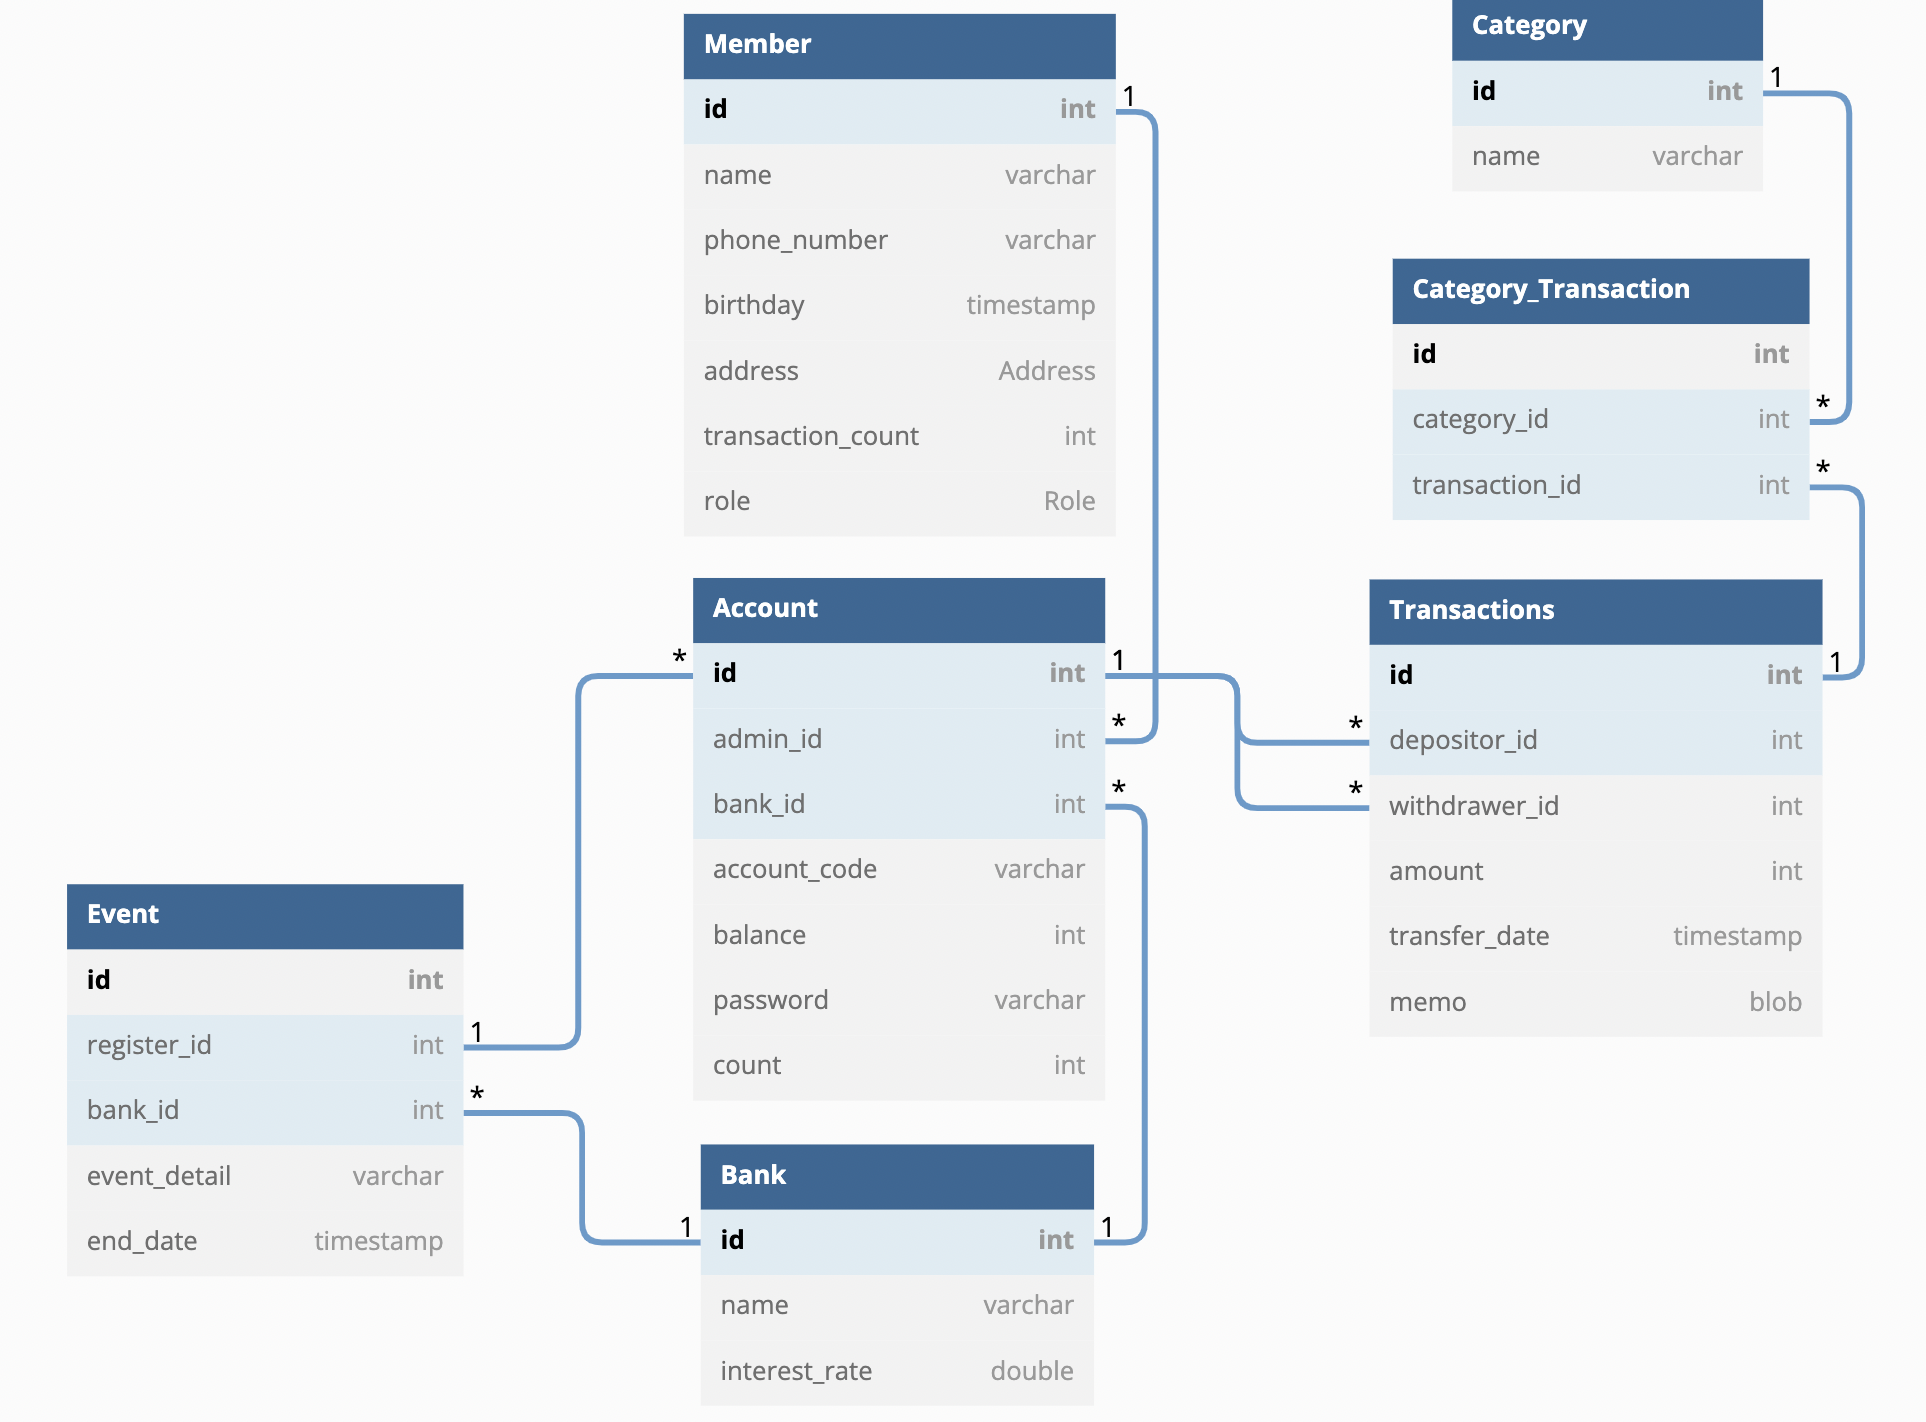
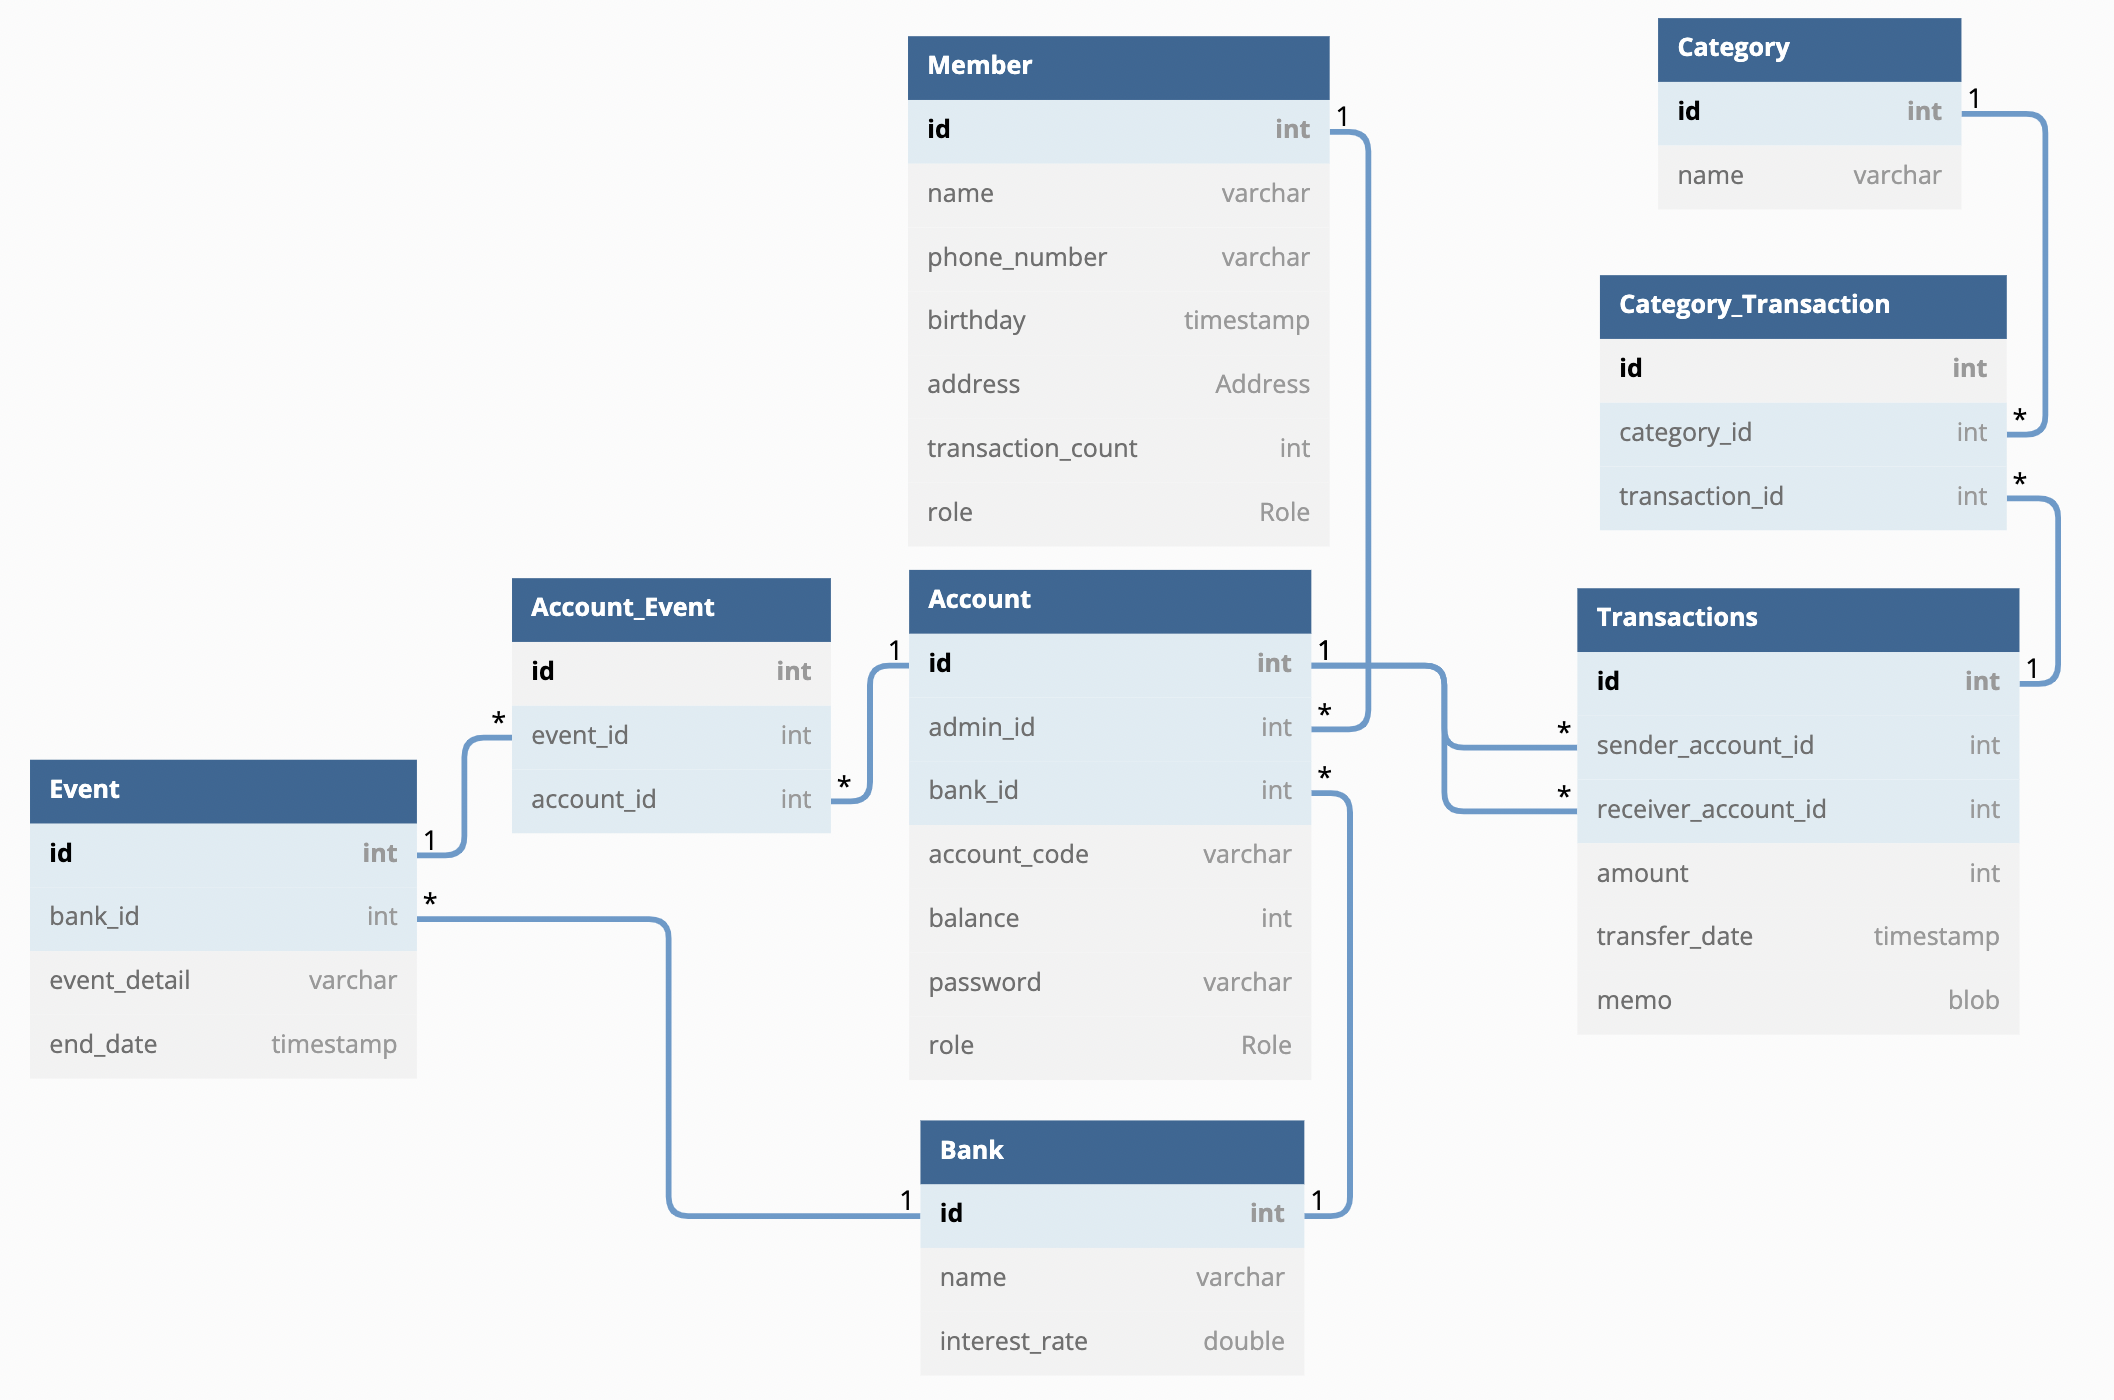
Create Entity

diff --git a/src/main/java/com/toss/tossclone/entity/Member.java b/src/main/java/com/toss/tossclone/entity/Member.java
@@ -1,0 +1,51 @@
+package com.toss.tossclone.entity;
+
+import com.toss.tossclone.entity.constant.MemberRole;
+import lombok.*;
+
+import javax.persistence.*;
+import java.time.LocalDateTime;
+
+@Entity
+@Getter @Setter(AccessLevel.PROTECTED)
+@NoArgsConstructor(access = AccessLevel.PROTECTED)
+public class Member {
+    @Id @GeneratedValue
+    @Column(name = "member_id")
+    private Long id;
+
+    @Column(nullable = false)
+    private String name;
+
+    @Column(name = "phone_number")
+    private String phoneNum;
+
+    @Column(nullable = false)
+    private LocalDateTime birthday;
+
+    @Embedded
+    private Address address;
+
+    @Column(name = "transaction_count")
+    private int transactionCount;
+
+    @Enumerated(EnumType.STRING)
+    private MemberRole role;
+
+    @Builder
+    public Member(String name, String phoneNum, LocalDateTime birthday, Address address, int transactionCount, MemberRole role) {
+        this.name = name;
+        this.phoneNum = phoneNum;
+        this.birthday = birthday;
+        this.address = address;
+        this.transactionCount = transactionCount;
+        this.role = role;
+    }
+
+    /**
+     * 한달마다 거래 횟수 초기화
+     */
+    void initTransactionCount() {
+        transactionCount = 0;
+    }
+}

diff --git a/src/main/java/com/toss/tossclone/entity/Transaction.java b/src/main/java/com/toss/tossclone/entity/Transaction.java
@@ -1,0 +1,45 @@
+package com.toss.tossclone.entity;
+
+import lombok.*;
+
+import javax.persistence.*;
+import java.time.LocalDateTime;
+
+@Entity
+@Table(name = "Transactions")
+@Getter
+@Setter(AccessLevel.PROTECTED)
+@NoArgsConstructor(access = AccessLevel.PROTECTED)
+public class Transaction {
+    @Id @GeneratedValue
+    @Column(name = "transaction_id")
+    private Long id;
+
+    @ManyToOne(fetch = FetchType.LAZY)
+    @JoinColumn(name = "account_id")
+    @Column(name = "sender_account_id")
+    private Account senderAccount;
+
+    @ManyToOne(fetch = FetchType.LAZY)
+    @JoinColumn(name = "account_id")
+    @Column(name = "receiver_account_id")
+    private Account receiverAccount;
+
+    @Column(nullable = false)
+    private Long amount;
+
+    @Column(name = "transfer_time", nullable = false)
+    private LocalDateTime transferTime;
+
+    @Lob
+    private String memo;
+
+    @Builder
+    public Transaction(Account senderAccount, Account receiverAccount, Long amount, LocalDateTime transferTime, String memo) {
+        this.senderAccount = senderAccount;
+        this.receiverAccount = receiverAccount;
+        this.amount = amount;
+        this.transferTime = transferTime;
+        this.memo = memo;
+    }
+}

diff --git a/src/main/java/com/toss/tossclone/entity/Account.java b/src/main/java/com/toss/tossclone/entity/Account.java
@@ -1,0 +1,42 @@
+package com.toss.tossclone.entity;
+
+import lombok.*;
+
+import javax.persistence.*;
+
+@Entity
+@Getter @Setter(AccessLevel.PROTECTED)
+@NoArgsConstructor(access = AccessLevel.PROTECTED)
+public class Account {
+    @Id @GeneratedValue
+    @Column(name = "account_id")
+    private Long id;
+
+    @ManyToOne(fetch = FetchType.LAZY)
+    @JoinColumn(name = "member_id")
+    private Member member;
+
+    @ManyToOne(fetch = FetchType.LAZY)
+    @JoinColumn(name = "bank_id")
+    private Bank bank;
+
+    @Column(name = "account_code", nullable = false)
+    private String accountCode;
+
+    @Column
+    private Long balance;
+
+    @Column(nullable = false)
+    private String password;
+
+    @Builder
+    public Account(Member member, Bank bank, String accountCode, Long balance, String password) {
+        this.member = member;
+        this.bank = bank;
+        this.accountCode = accountCode;
+        this.balance = balance;
+        this.password = password;
+    }
+
+
+}

diff --git a/src/main/java/com/toss/tossclone/entity/CategoryTransaction.java b/src/main/java/com/toss/tossclone/entity/CategoryTransaction.java
@@ -1,0 +1,30 @@
+package com.toss.tossclone.entity;
+
+import lombok.*;
+
+import javax.persistence.*;
+
+@Entity
+@Table(name = "Category_Transaction")
+@Getter
+@Setter(AccessLevel.PROTECTED)
+@NoArgsConstructor(access = AccessLevel.PROTECTED)
+public class CategoryTransaction {
+    @Id @GeneratedValue
+    @Column(name = "category_transaction_id")
+    private Long id;
+
+    @ManyToOne(fetch = FetchType.LAZY)
+    @JoinColumn(name = "category_id")
+    private Category category;
+
+    @ManyToOne(fetch = FetchType.LAZY)
+    @JoinColumn(name = "transaction_id")
+    private Transaction transaction;
+
+    @Builder
+    public CategoryTransaction(Category category, Transaction transaction) {
+        this.category = category;
+        this.transaction = transaction;
+    }
+}

diff --git a/src/main/java/com/toss/tossclone/entity/Event.java b/src/main/java/com/toss/tossclone/entity/Event.java
@@ -1,0 +1,33 @@
+package com.toss.tossclone.entity;
+
+import lombok.*;
+
+import javax.persistence.*;
+import java.time.LocalDateTime;
+
+@Entity
+@Getter
+@Setter(AccessLevel.PROTECTED)
+@NoArgsConstructor(access = AccessLevel.PROTECTED)
+public class Event {
+    @Id @GeneratedValue
+    @Column(name = "event_id")
+    private Long id;
+
+    @ManyToOne(fetch = FetchType.LAZY)
+    @JoinColumn(name = "bank_id")
+    private Bank bank;
+
+    @Column(name = "event_detail")
+    private String eventDetail;
+
+    @Column(name = "end_date")
+    private LocalDateTime endDate;
+
+    @Builder
+    public Event(Bank bank, String eventDetail, LocalDateTime endDate) {
+        this.bank = bank;
+        this.eventDetail = eventDetail;
+        this.endDate = endDate;
+    }
+}

diff --git a/src/main/java/com/toss/tossclone/entity/Bank.java b/src/main/java/com/toss/tossclone/entity/Bank.java
@@ -1,0 +1,34 @@
+package com.toss.tossclone.entity;
+
+import lombok.*;
+
+import javax.persistence.Column;
+import javax.persistence.Entity;
+import javax.persistence.GeneratedValue;
+import javax.persistence.Id;
+
+@Entity
+@Getter @Setter(AccessLevel.PROTECTED)
+@NoArgsConstructor(access = AccessLevel.PROTECTED)
+public class Bank {
+
+    @Id @GeneratedValue
+    @Column(name = "bank_id")
+    private Long id;
+
+    @Column(nullable = false)
+    private String name;
+
+    @Column(name = "interest_rate")
+    private Double interestRate;
+
+    @Builder
+    public Bank(String name, Double interestRate) {
+        this.name = name;
+        this.interestRate = interestRate;
+    }
+
+    /**
+     * 추후에 은행 별 icon 이미지 추가 해줄것
+     */
+}

diff --git a/src/main/java/com/toss/tossclone/entity/AccountEvent.java b/src/main/java/com/toss/tossclone/entity/AccountEvent.java
@@ -1,0 +1,29 @@
+package com.toss.tossclone.entity;
+
+import lombok.AccessLevel;
+import lombok.Getter;
+import lombok.NoArgsConstructor;
+import lombok.Setter;
+
+import javax.persistence.*;
+
+@Entity
+@Table(name = "Account_Event")
+@Getter
+@Setter(AccessLevel.PROTECTED)
+@NoArgsConstructor(access = AccessLevel.PROTECTED)
+public class AccountEvent {
+    @Id @GeneratedValue
+    @Column(name = "account_event_id")
+    private Long id;
+
+    @ManyToOne(fetch = FetchType.LAZY)
+    @JoinColumn(name = "event_id")
+    private Event event;
+
+    @ManyToOne(fetch = FetchType.LAZY)
+    @JoinColumn(name = "account_id")
+    private Account account;
+
+
+}

diff --git a/src/main/java/com/toss/tossclone/entity/Category.java b/src/main/java/com/toss/tossclone/entity/Category.java
@@ -1,0 +1,26 @@
+package com.toss.tossclone.entity;
+
+import lombok.*;
+
+import javax.persistence.Column;
+import javax.persistence.Entity;
+import javax.persistence.GeneratedValue;
+import javax.persistence.Id;
+
+@Entity
+@Getter
+@Setter(AccessLevel.PROTECTED)
+@NoArgsConstructor(access = AccessLevel.PROTECTED)
+public class Category {
+    @Id @GeneratedValue
+    @Column(name = "category_id")
+    private Long id;
+
+    @Column(name = "category_name", nullable = false)
+    private String name;
+
+    @Builder
+    public Category(String name) {
+        this.name = name;
+    }
+}

diff --git a/src/main/java/com/toss/tossclone/entity/Address.java b/src/main/java/com/toss/tossclone/entity/Address.java
@@ -1,0 +1,24 @@
+package com.toss.tossclone.entity;
+
+import lombok.EqualsAndHashCode;
+import lombok.Getter;
+
+import javax.persistence.Embeddable;
+
+@Embeddable
+@Getter
+@EqualsAndHashCode
+public class Address {
+    private String city;
+    private String street;
+    private String zipcode;
+
+    protected Address() {
+    }
+
+    public Address(String city, String street, String zipcode) {
+        this.city = city;
+        this.street = street;
+        this.zipcode = zipcode;
+    }
+}

diff --git a/src/main/java/com/toss/tossclone/entity/constant/MemberRole.java b/src/main/java/com/toss/tossclone/entity/constant/MemberRole.java
@@ -1,0 +1,5 @@
+package com.toss.tossclone.entity.constant;
+
+public enum MemberRole {
+    ADMIN, USER
+}
